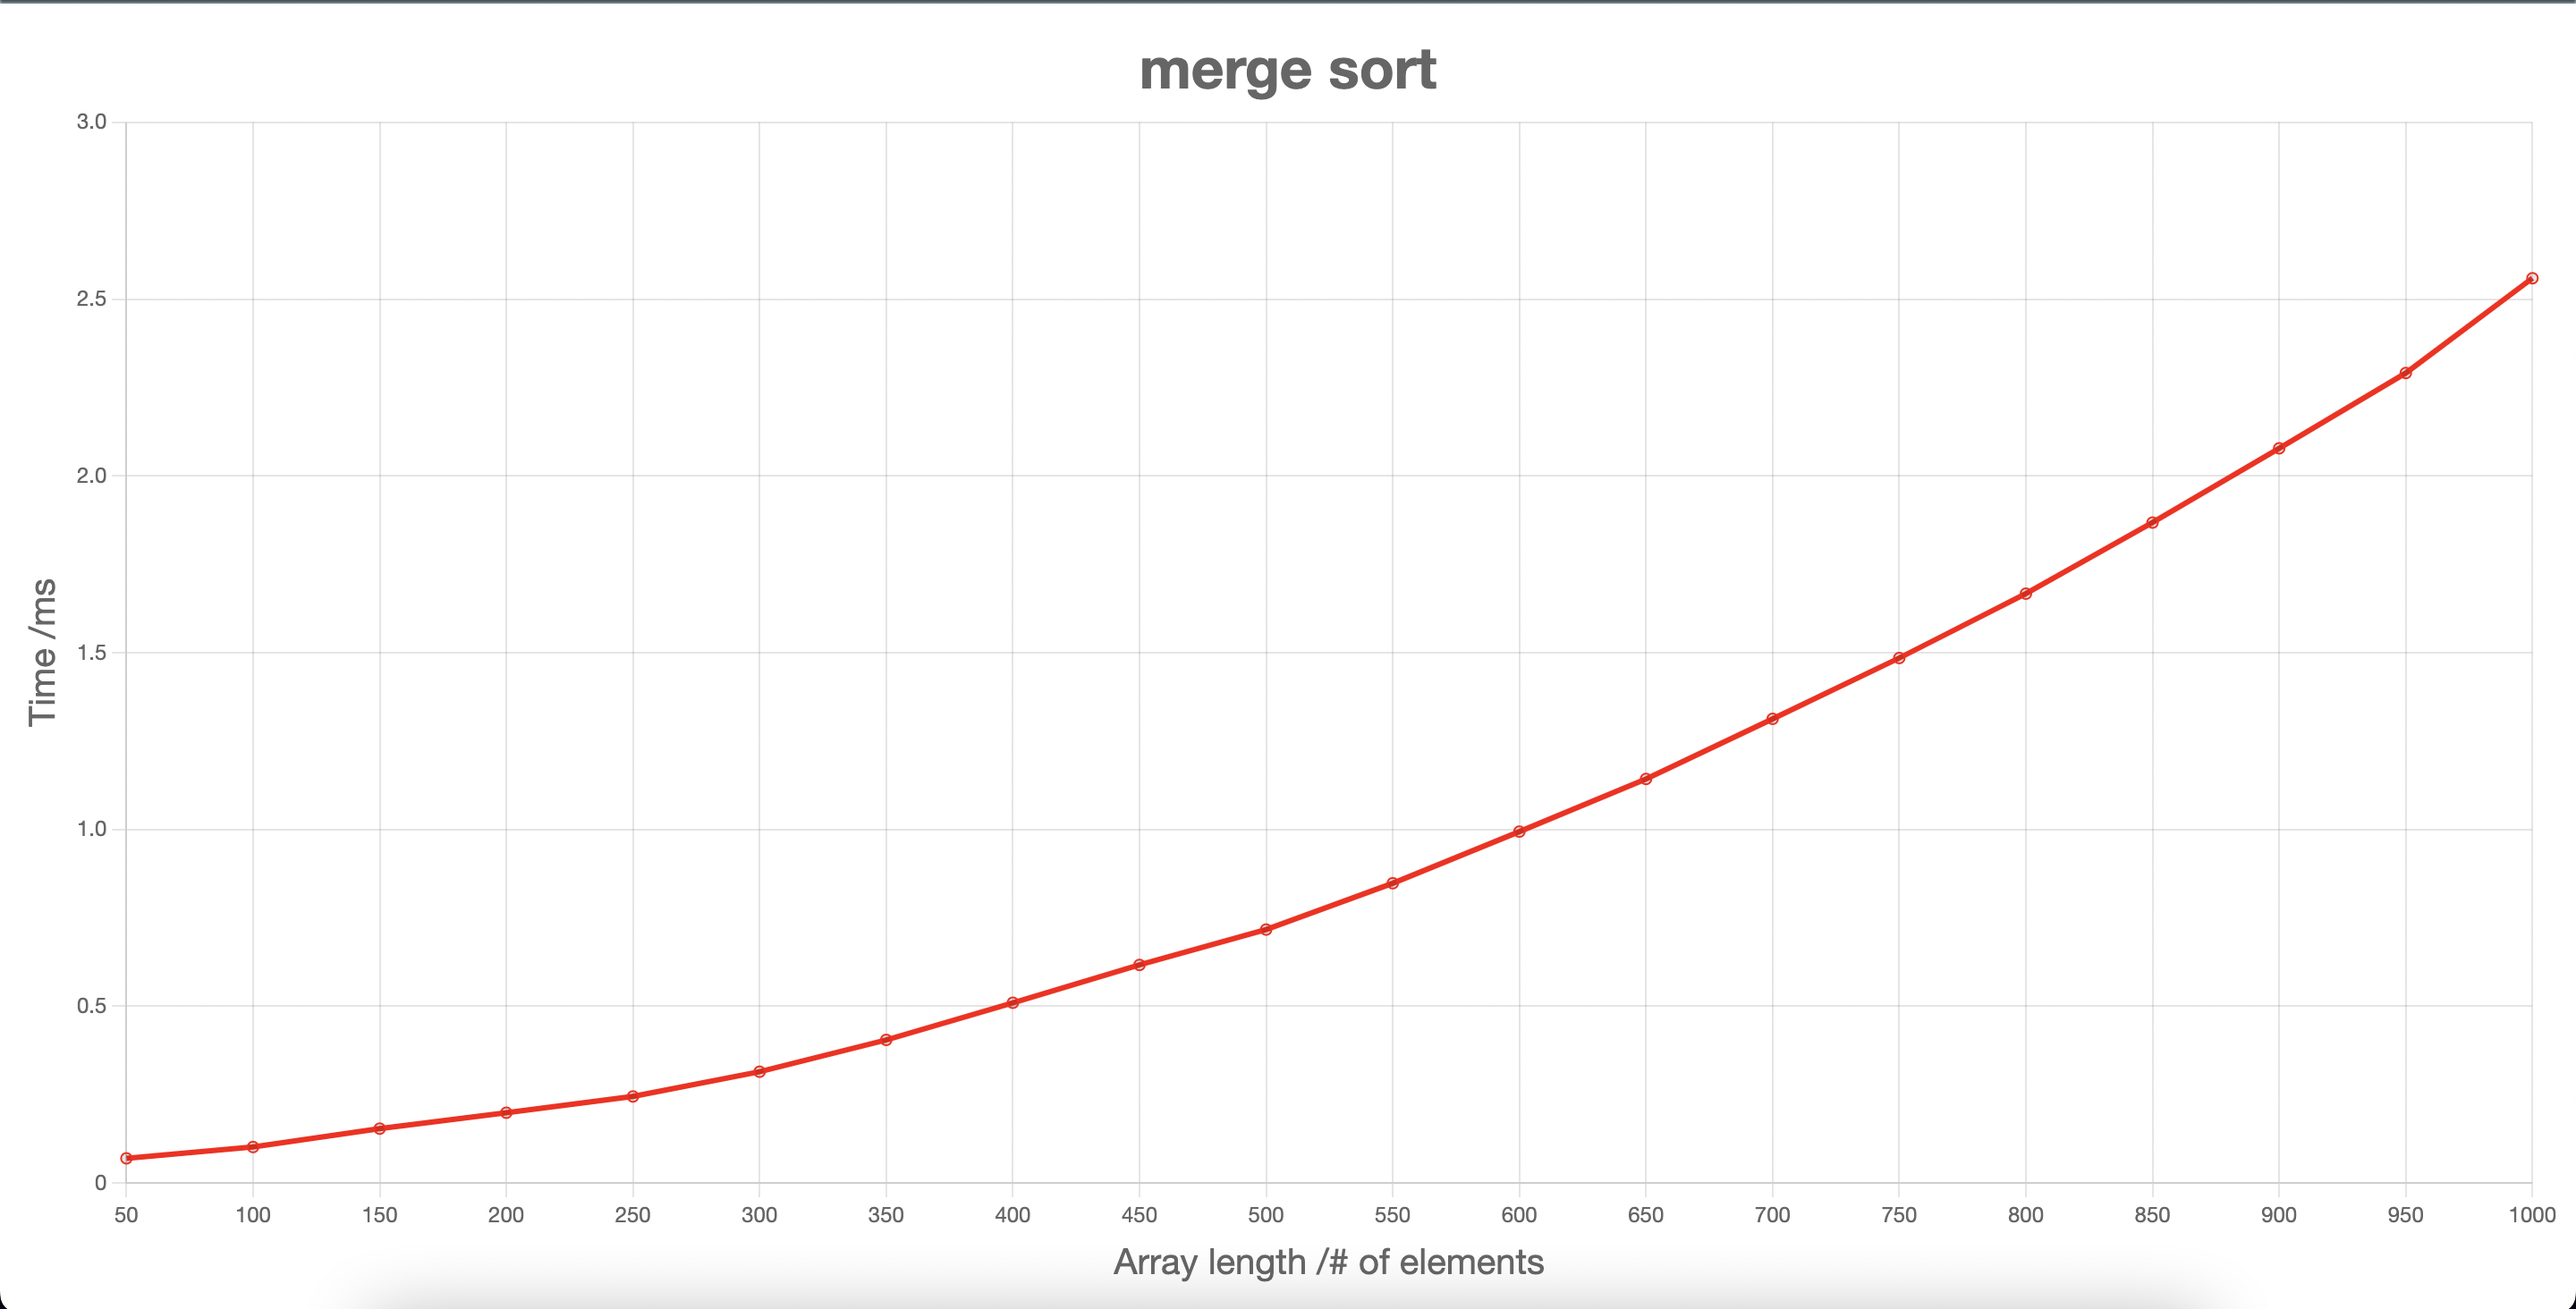
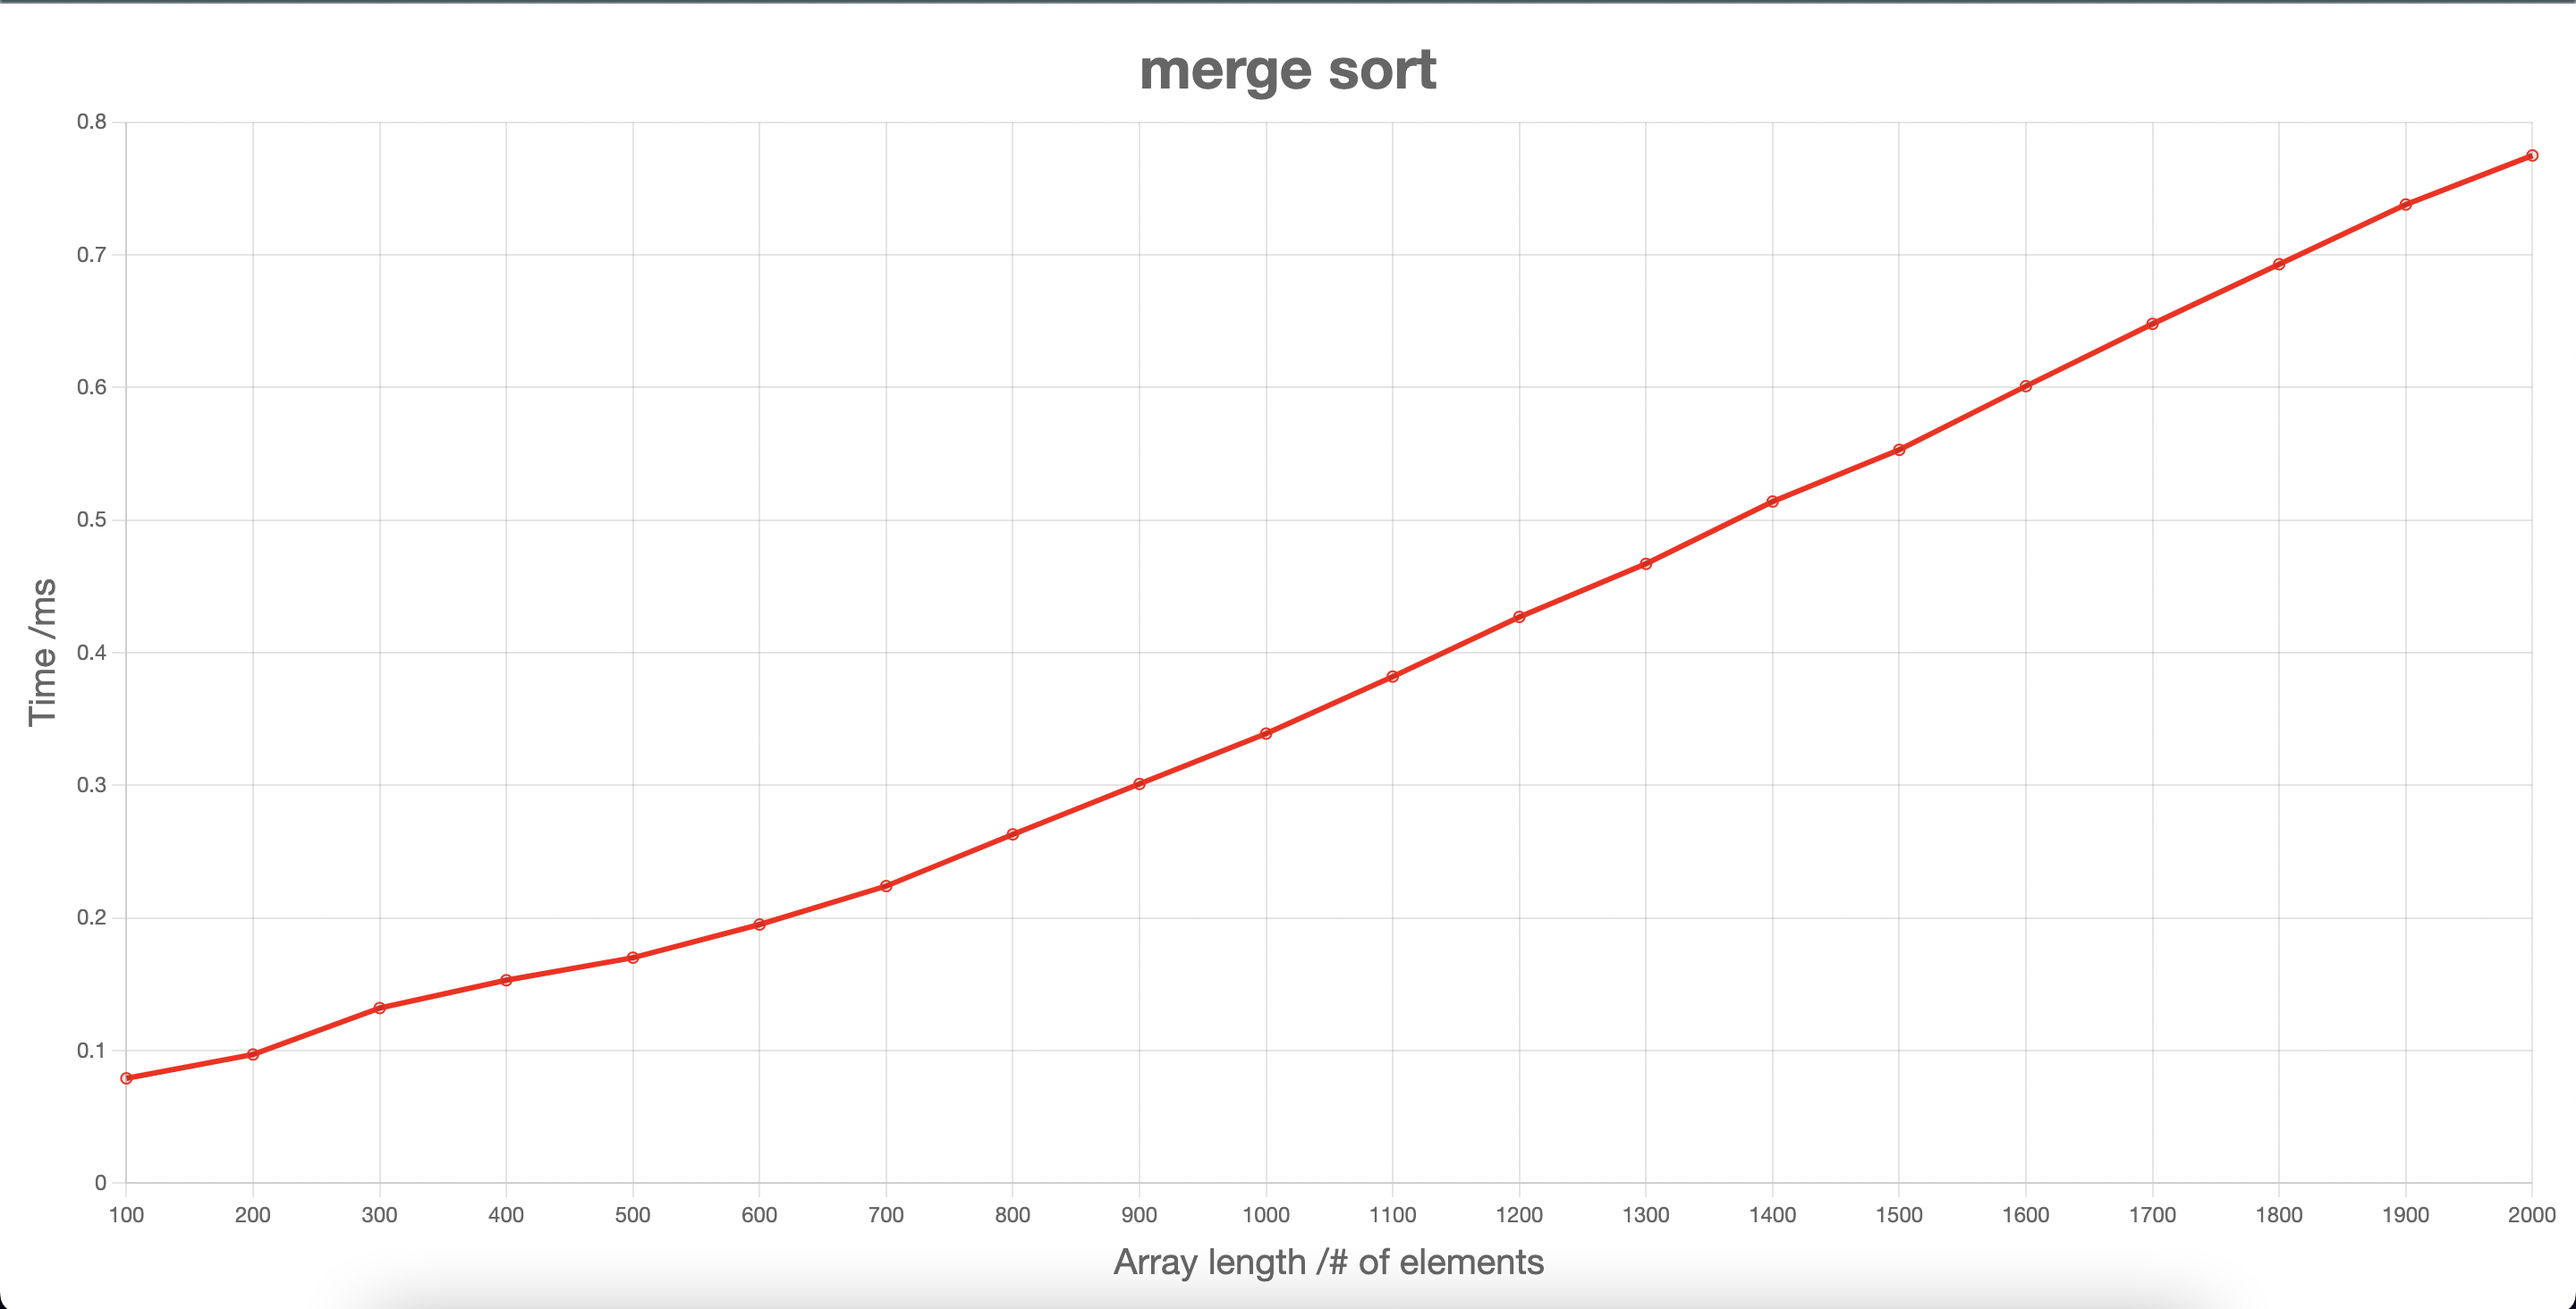
Update merge sort
Make a correction on merge sort to actually make it O(n log n). Do this
by using slice instead of splice at the start of the merge() function.

diff --git a/custom-algorithms/sort/sort.js b/custom-algorithms/sort/sort.js
@@ -10,8 +10,8 @@ const sort = (array, l = 0, r = array.length - 1) => {
 };
 
 const merge = (array, l, m, r) => {
-  let oneHalf = [...array].splice(l, m - l + 1);
-  let twoHalf = [...array].splice(m + 1, r - m);
+  let oneHalf = array.slice(l, m + 1);
+  let twoHalf = array.slice(m + 1, r + 1);
   const steps = r - l + 1;
   for (let i = 0; i < steps; i++) {
     if (oneHalf[0] < twoHalf[0] || twoHalf[0] === undefined) {

diff --git a/custom-algorithms/sort/plotSort.js b/custom-algorithms/sort/plotSort.js
@@ -6,10 +6,10 @@ const sort = require("./sort");
 
 const xValues = [];
 for (i = 1; i < 21; i++) {
-  xValues.push(50 * i);
+  xValues.push(100 * i);
 }
 
-const yValues = saveData(sort, 100, 50, createSortDataPoint);
+const yValues = saveData(sort, 100, 100, createSortDataPoint);
 
 new Chart("myChart", {
   type: "line",
